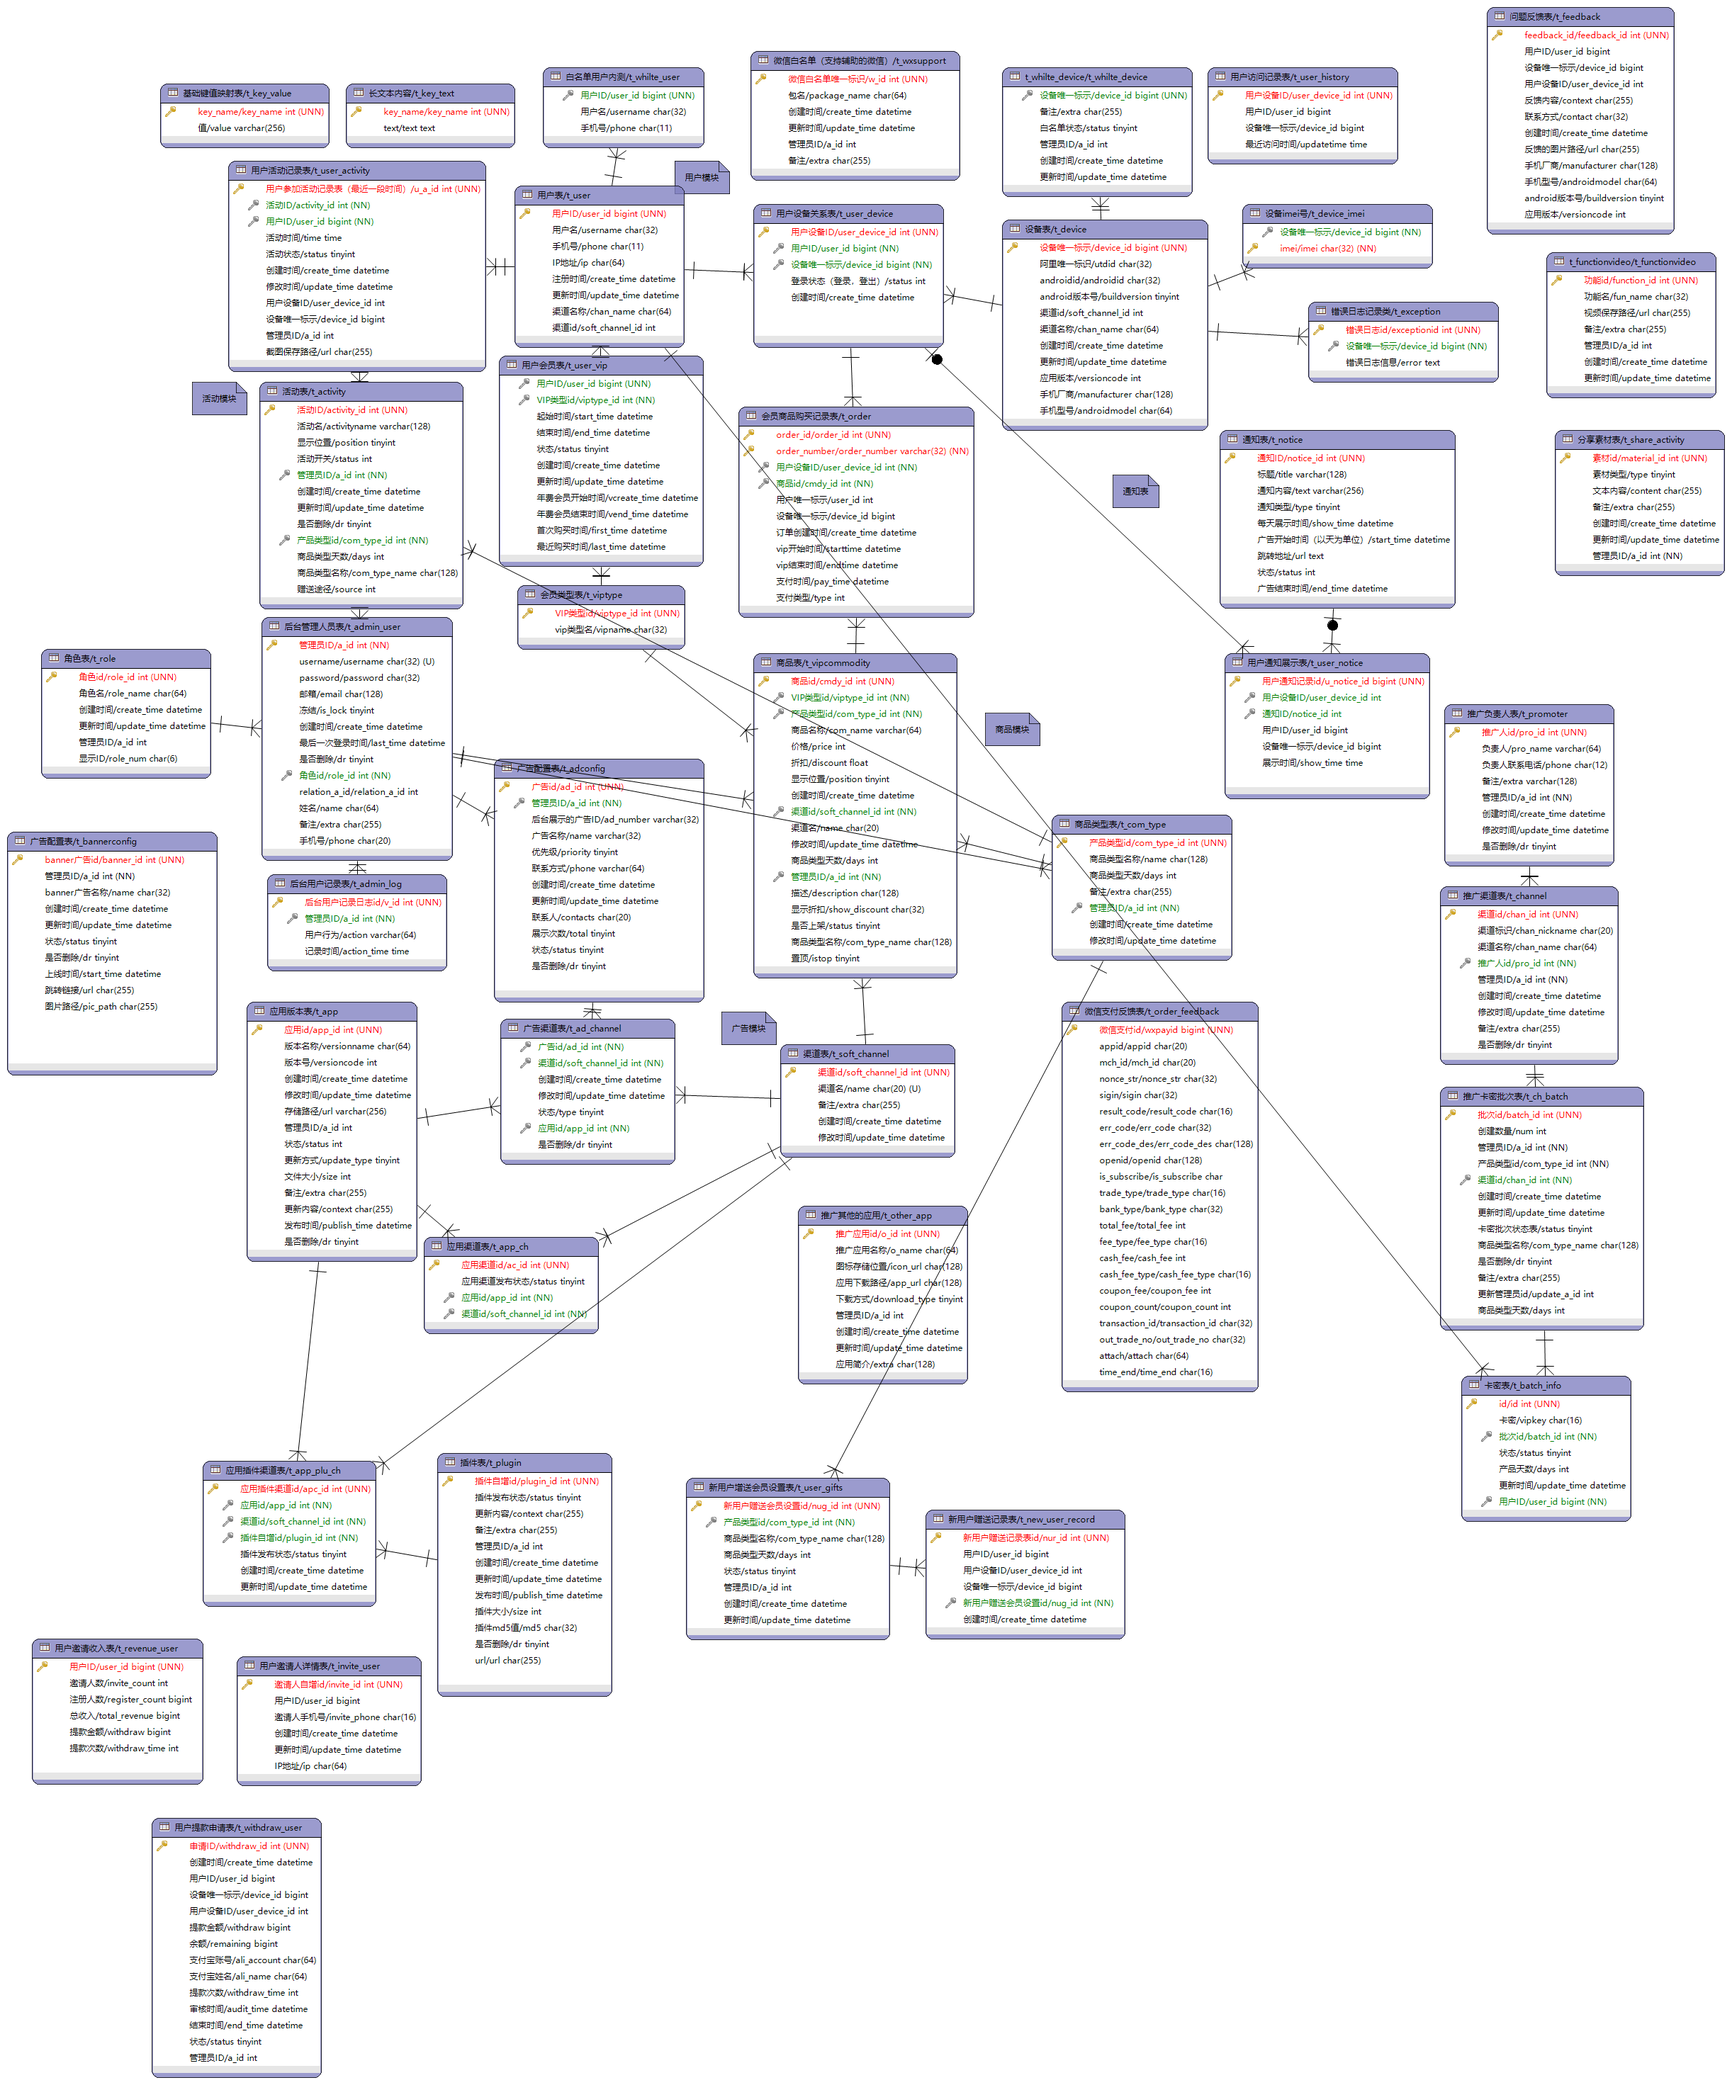
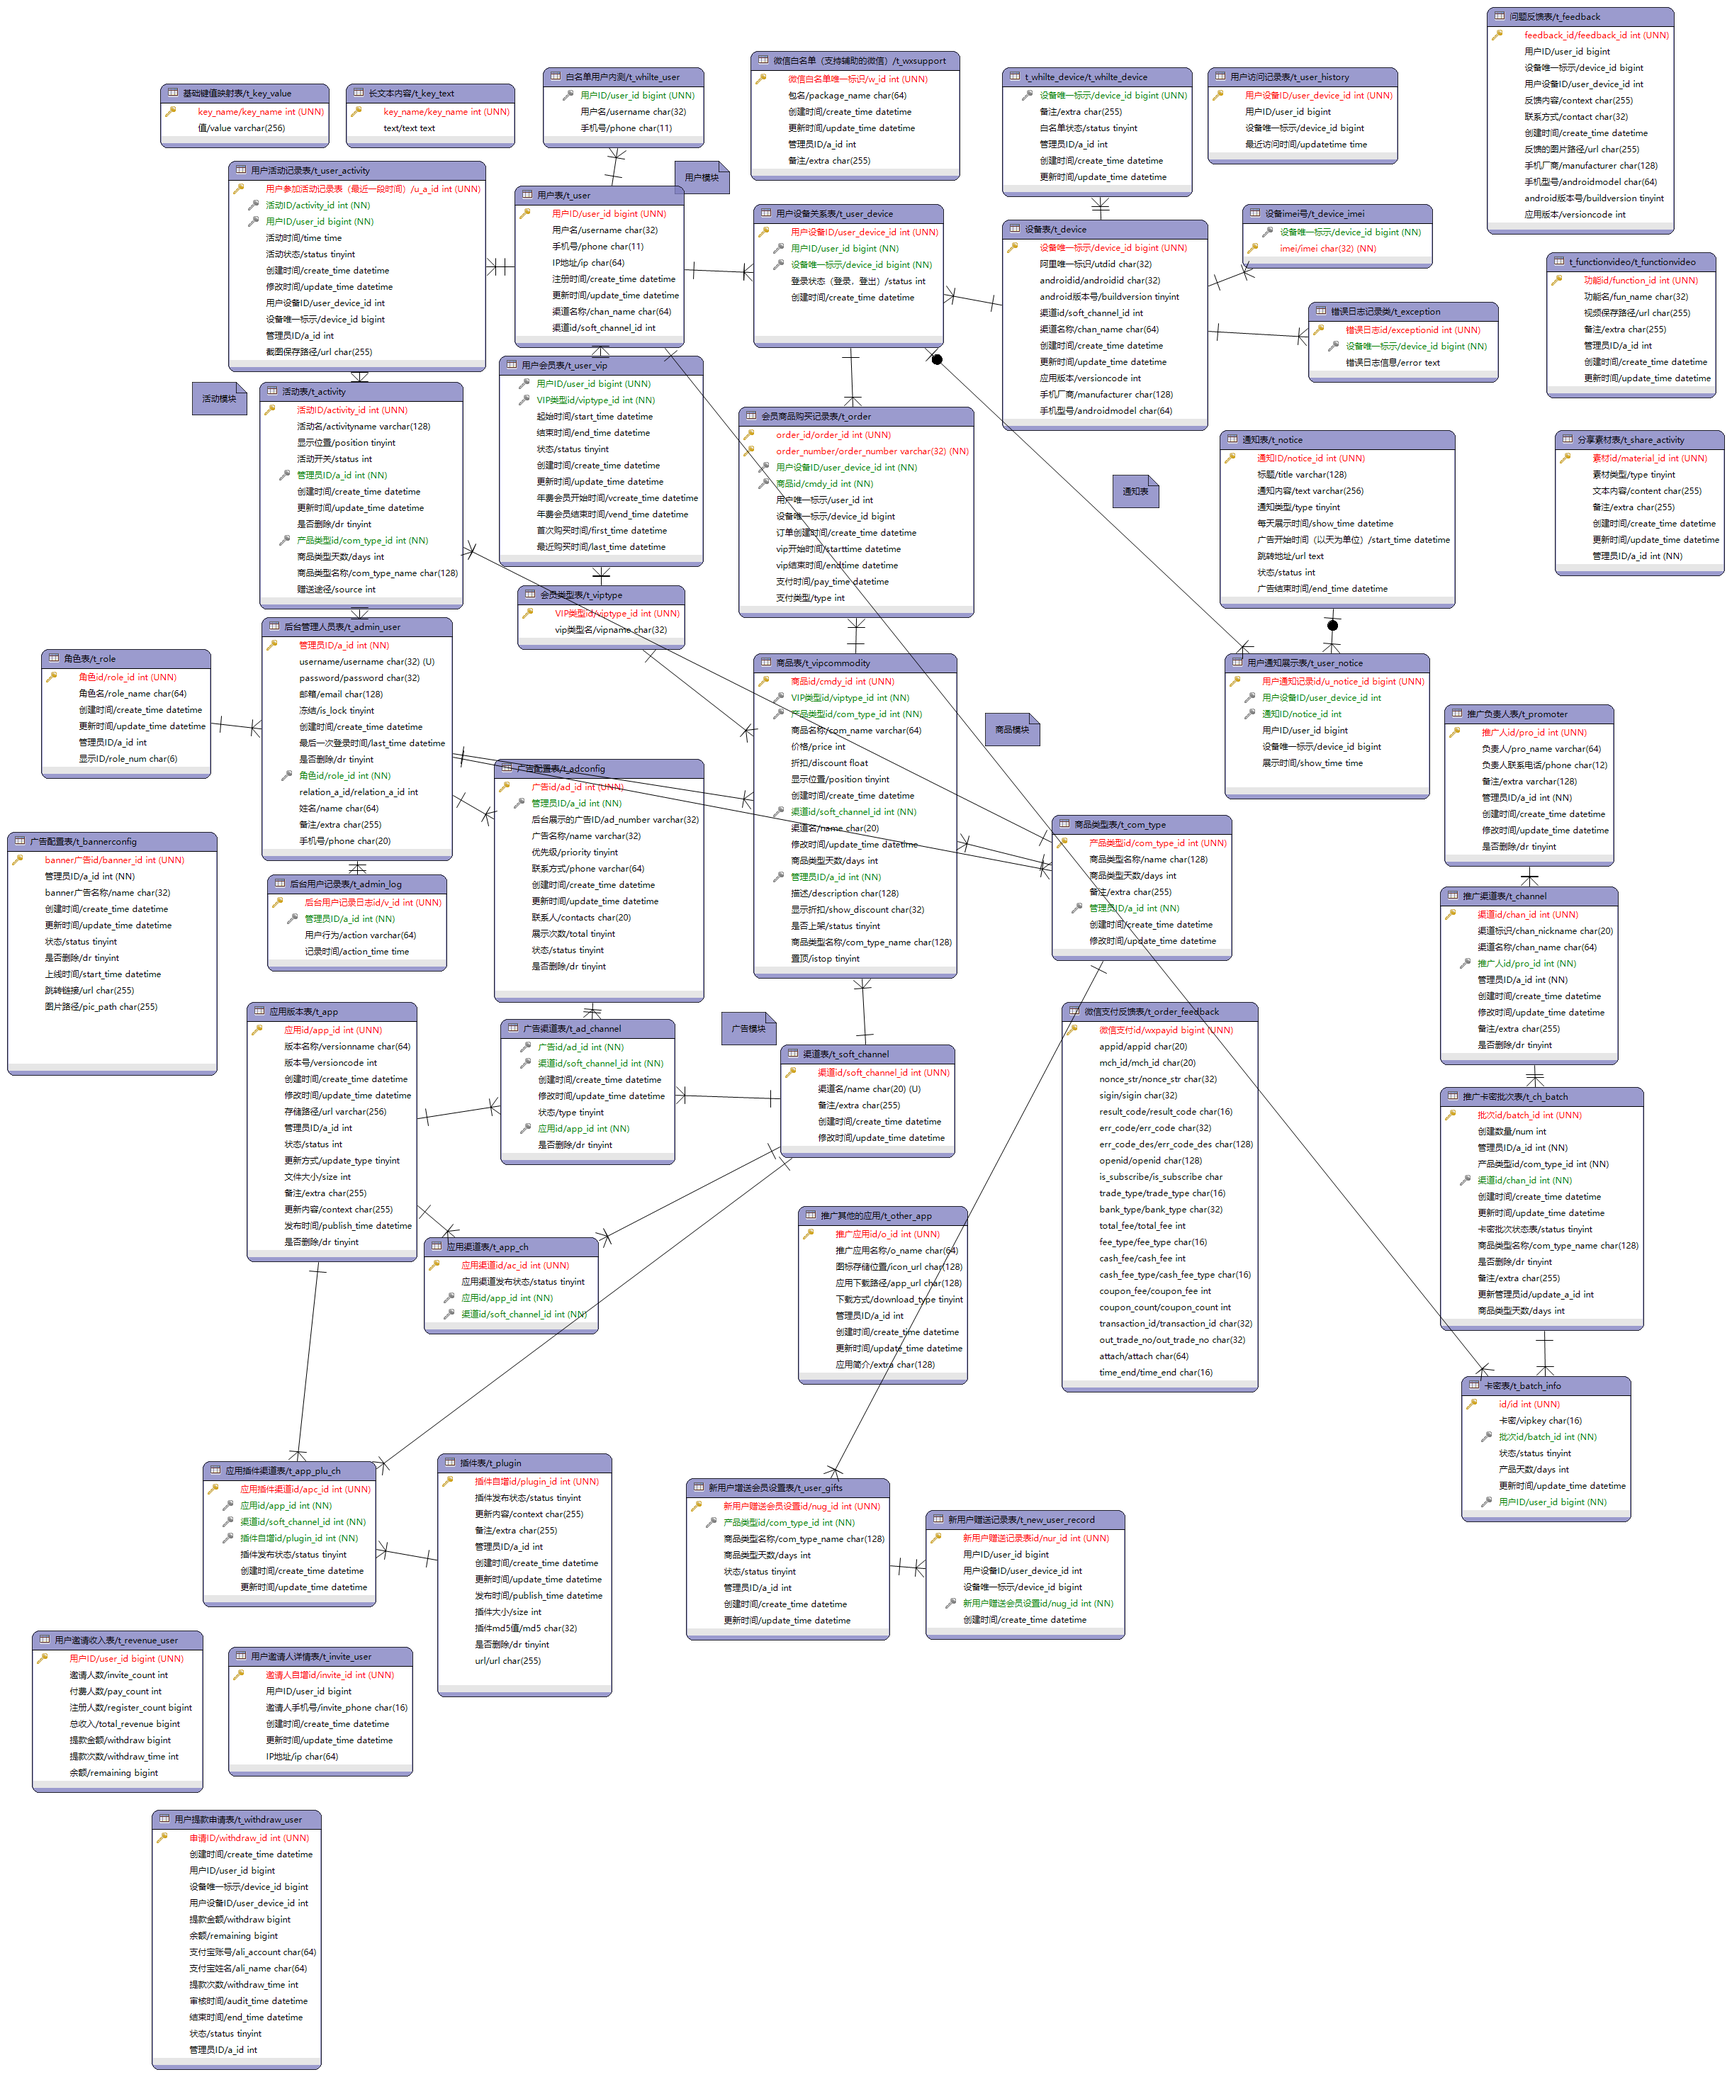
update t_revenue_user

diff --git a/smartweb/src/main/java/com/rpa/web/pojo/RevenueUserPO.java b/smartweb/src/main/java/com/rpa/web/pojo/RevenueUserPO.java
@@ -11,6 +11,8 @@ public class RevenueUserPO implements Serializable {
 
     private Integer inviteCount;
 
+    private Integer payCount;
+
     private Long registerCount;
 
     private Long totalRevenue;
@@ -18,6 +20,8 @@ public class RevenueUserPO implements Serializable {
     private Long withdraw;
 
     private Integer withdrawTime;
+
+    private Long remaining;
 
     private static final long serialVersionUID = 1L;
 
@@ -35,6 +39,14 @@ public class RevenueUserPO implements Serializable {
 
     public void setInviteCount(Integer inviteCount) {
         this.inviteCount = inviteCount;
+    }
+
+    public Integer getPayCount() {
+        return payCount;
+    }
+
+    public void setPayCount(Integer payCount) {
+        this.payCount = payCount;
     }
 
     public Long getRegisterCount() {
@@ -69,6 +81,14 @@ public class RevenueUserPO implements Serializable {
         this.withdrawTime = withdrawTime;
     }
 
+    public Long getRemaining() {
+        return remaining;
+    }
+
+    public void setRemaining(Long remaining) {
+        this.remaining = remaining;
+    }
+
     @Override
     public boolean equals(Object that) {
         if (this == that) {
@@ -83,10 +103,12 @@ public class RevenueUserPO implements Serializable {
         RevenueUserPO other = (RevenueUserPO) that;
         return (this.getUserId() == null ? other.getUserId() == null : this.getUserId().equals(other.getUserId()))
             && (this.getInviteCount() == null ? other.getInviteCount() == null : this.getInviteCount().equals(other.getInviteCount()))
+            && (this.getPayCount() == null ? other.getPayCount() == null : this.getPayCount().equals(other.getPayCount()))
             && (this.getRegisterCount() == null ? other.getRegisterCount() == null : this.getRegisterCount().equals(other.getRegisterCount()))
             && (this.getTotalRevenue() == null ? other.getTotalRevenue() == null : this.getTotalRevenue().equals(other.getTotalRevenue()))
             && (this.getWithdraw() == null ? other.getWithdraw() == null : this.getWithdraw().equals(other.getWithdraw()))
-            && (this.getWithdrawTime() == null ? other.getWithdrawTime() == null : this.getWithdrawTime().equals(other.getWithdrawTime()));
+            && (this.getWithdrawTime() == null ? other.getWithdrawTime() == null : this.getWithdrawTime().equals(other.getWithdrawTime()))
+            && (this.getRemaining() == null ? other.getRemaining() == null : this.getRemaining().equals(other.getRemaining()));
     }
 
     @Override
@@ -95,10 +117,12 @@ public class RevenueUserPO implements Serializable {
         int result = 1;
         result = prime * result + ((getUserId() == null) ? 0 : getUserId().hashCode());
         result = prime * result + ((getInviteCount() == null) ? 0 : getInviteCount().hashCode());
+        result = prime * result + ((getPayCount() == null) ? 0 : getPayCount().hashCode());
         result = prime * result + ((getRegisterCount() == null) ? 0 : getRegisterCount().hashCode());
         result = prime * result + ((getTotalRevenue() == null) ? 0 : getTotalRevenue().hashCode());
         result = prime * result + ((getWithdraw() == null) ? 0 : getWithdraw().hashCode());
         result = prime * result + ((getWithdrawTime() == null) ? 0 : getWithdrawTime().hashCode());
+        result = prime * result + ((getRemaining() == null) ? 0 : getRemaining().hashCode());
         return result;
     }
 
@@ -110,10 +134,12 @@ public class RevenueUserPO implements Serializable {
         sb.append("Hash = ").append(hashCode());
         sb.append(", userId=").append(userId);
         sb.append(", inviteCount=").append(inviteCount);
+        sb.append(", payCount=").append(payCount);
         sb.append(", registerCount=").append(registerCount);
         sb.append(", totalRevenue=").append(totalRevenue);
         sb.append(", withdraw=").append(withdraw);
         sb.append(", withdrawTime=").append(withdrawTime);
+        sb.append(", remaining=").append(remaining);
         sb.append(", serialVersionUID=").append(serialVersionUID);
         sb.append("]");
         return sb.toString();
